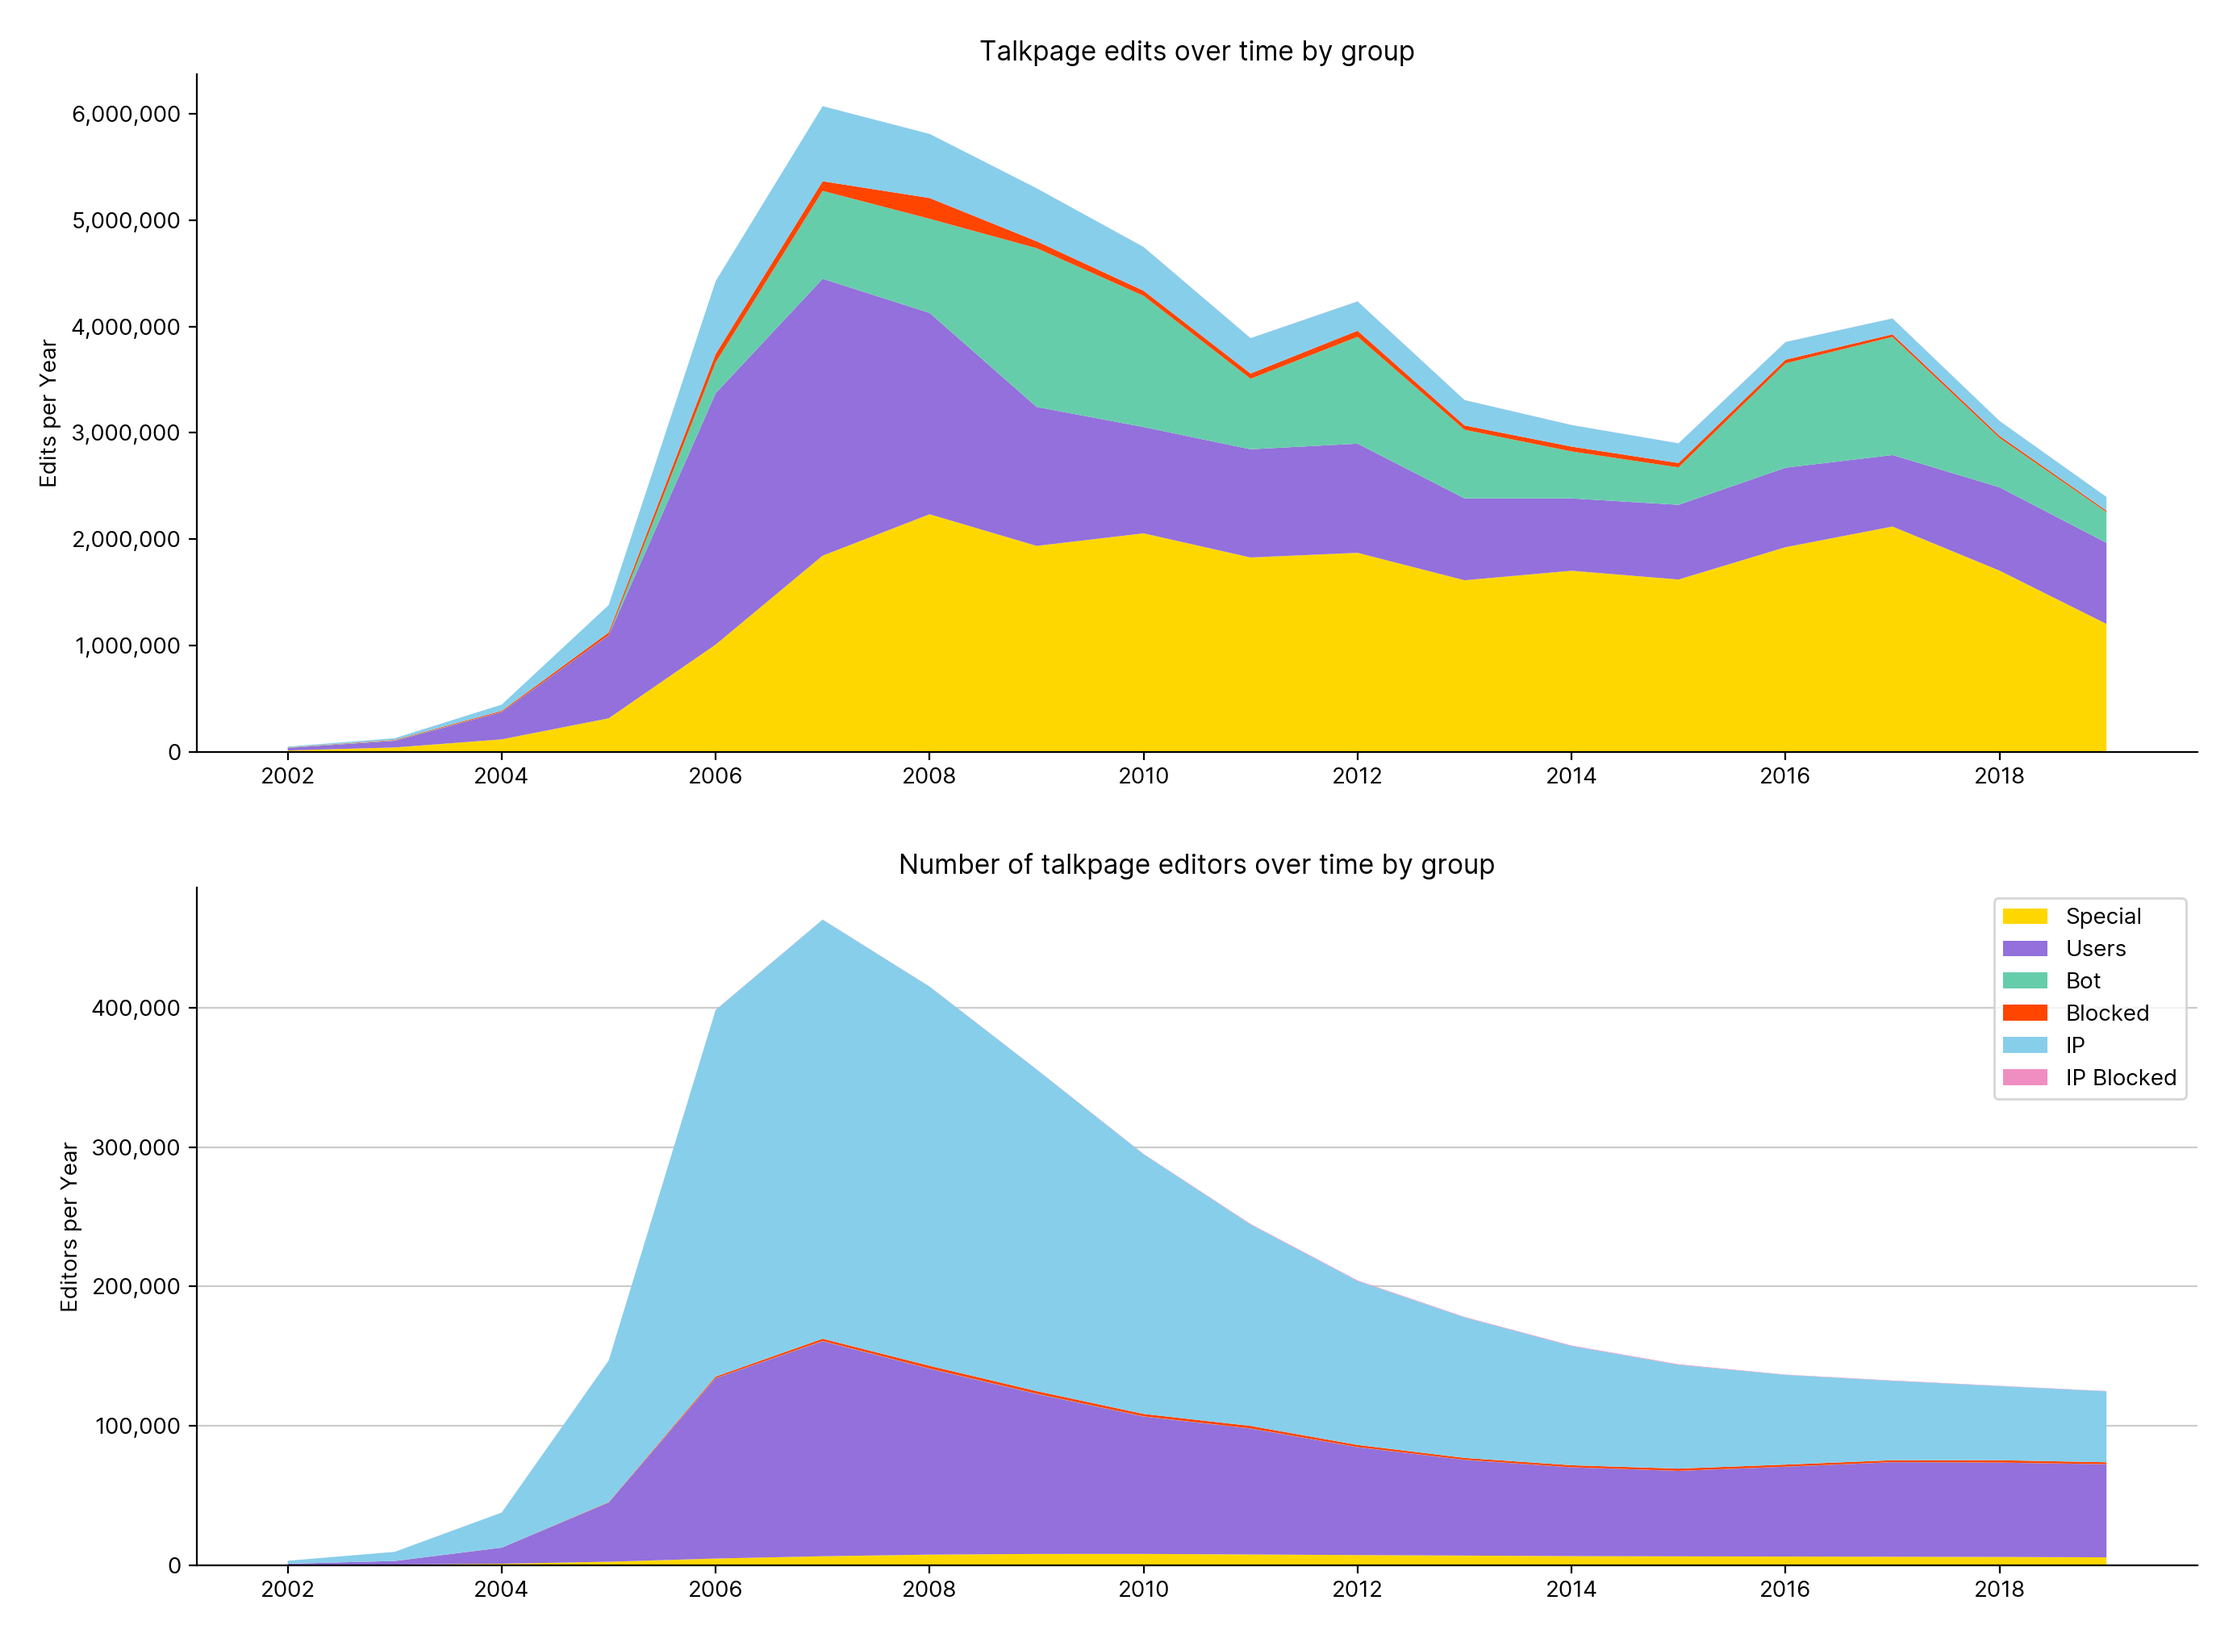
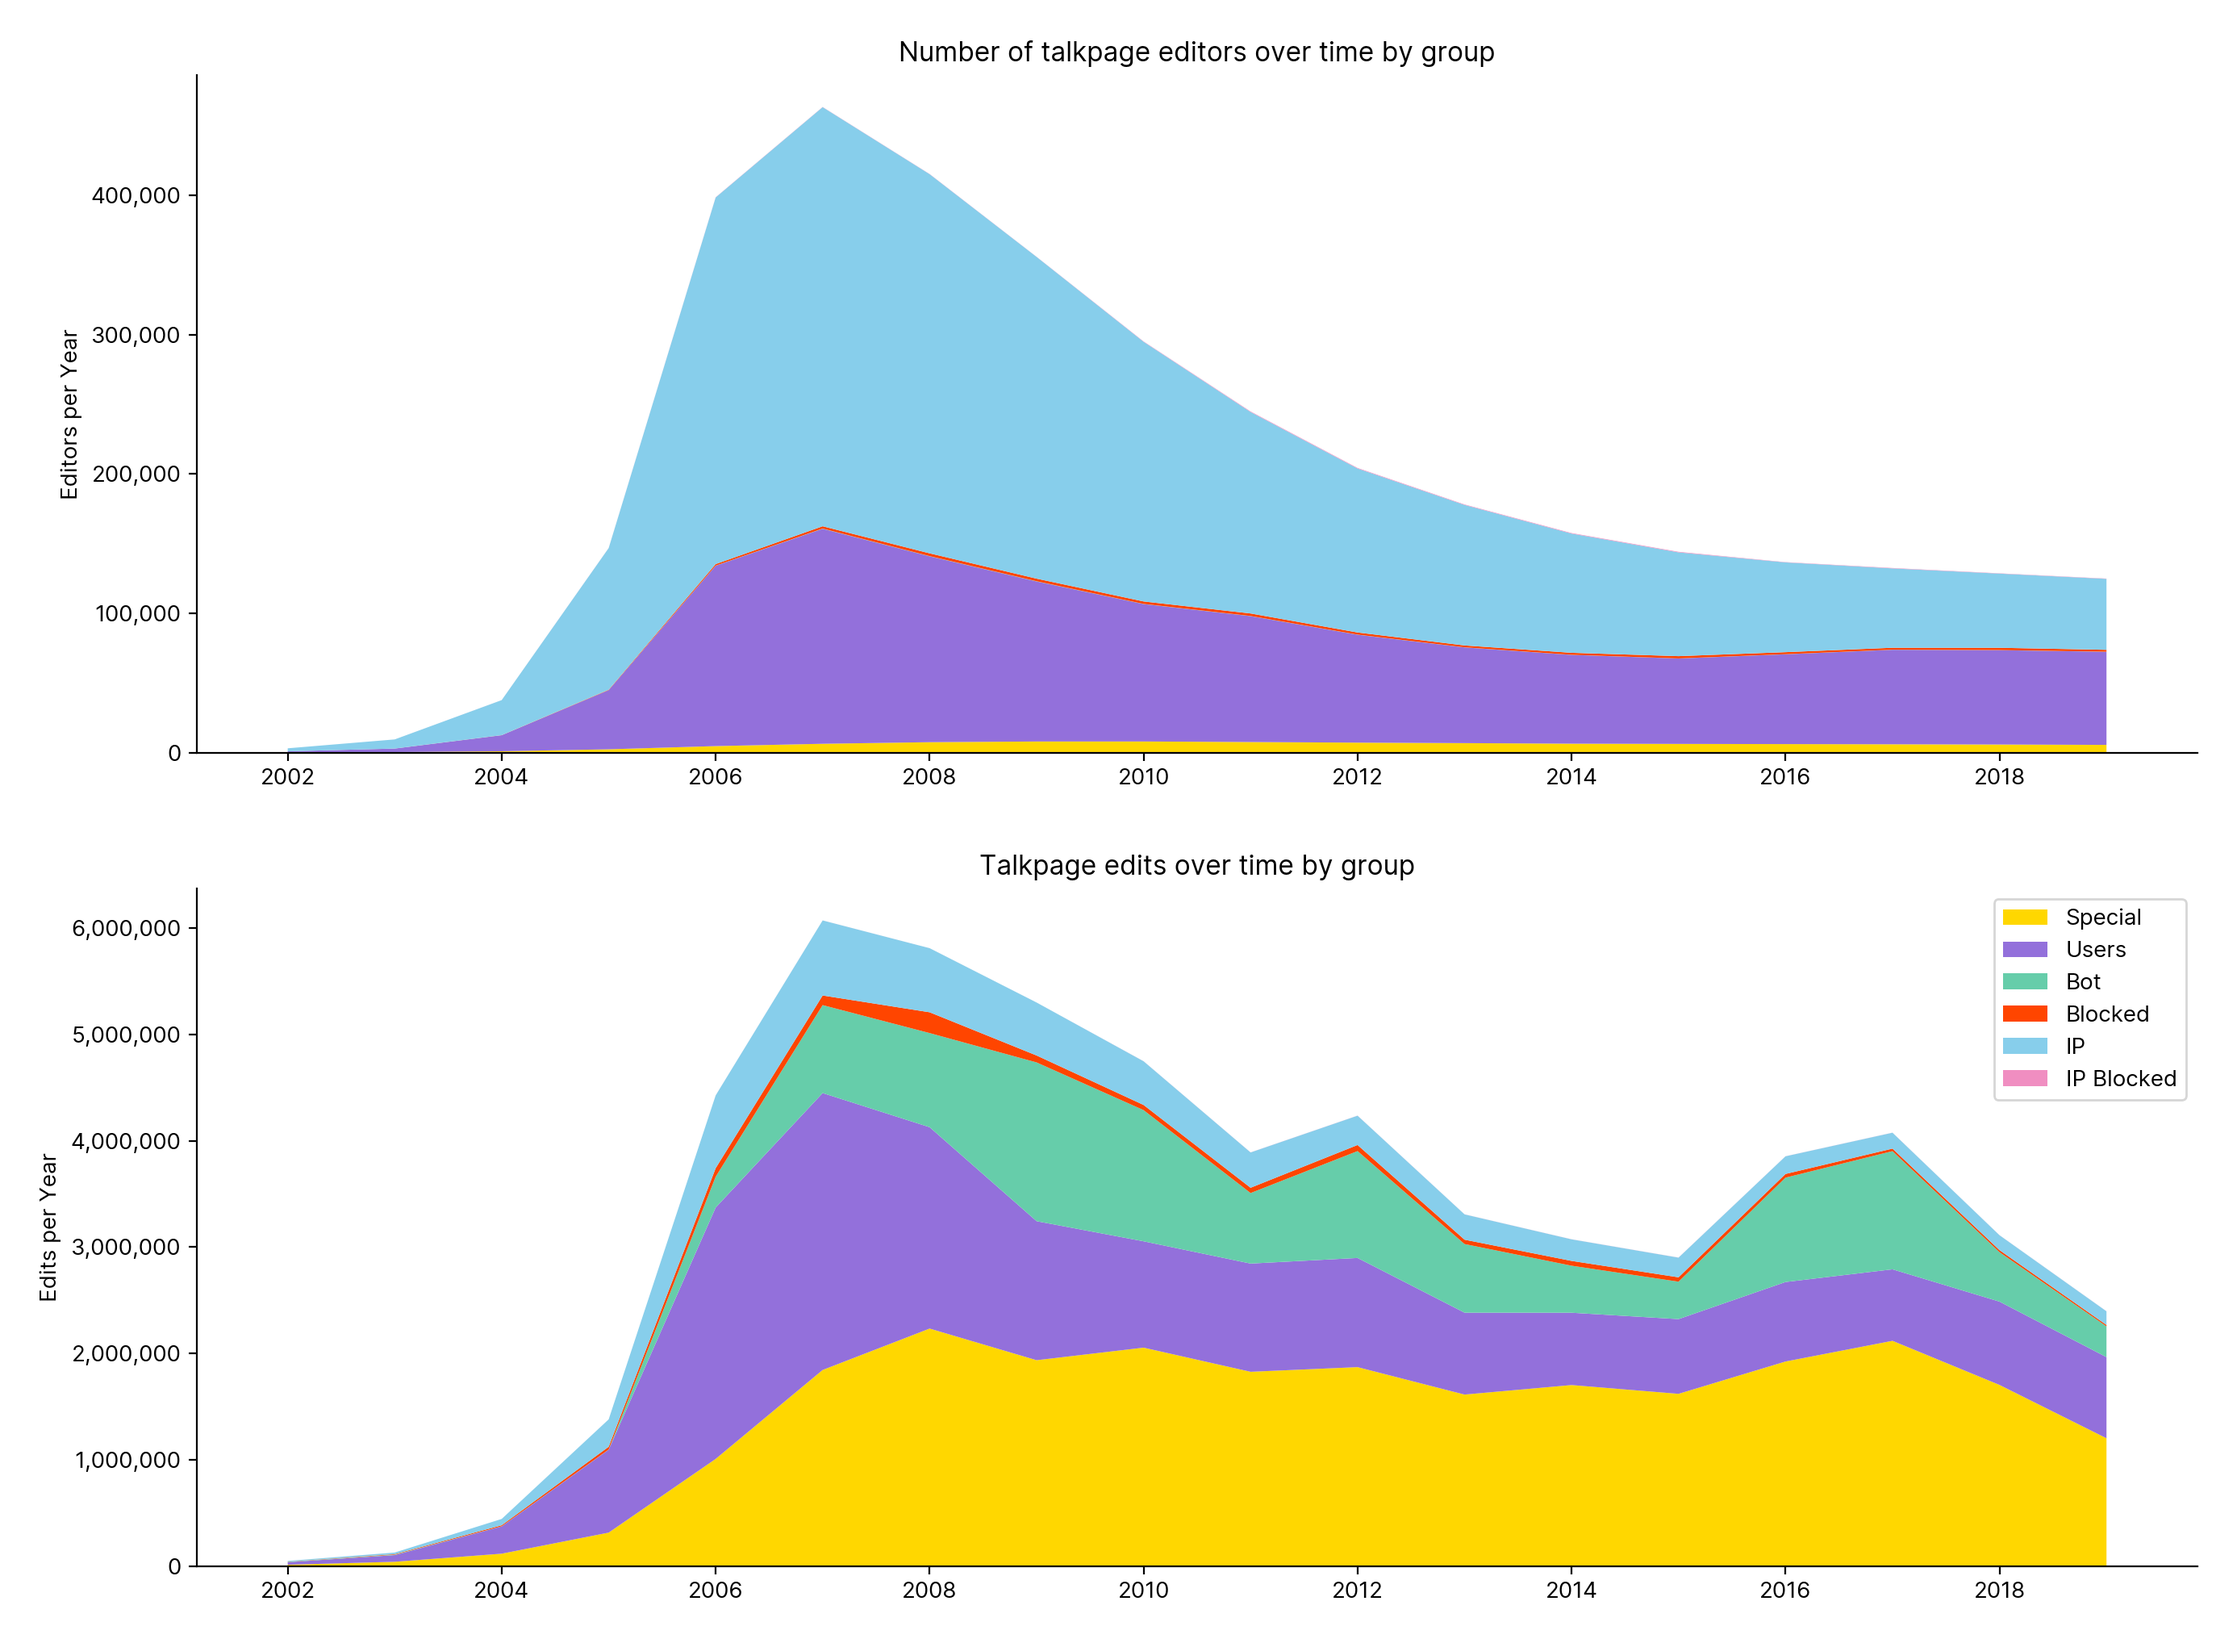
add proportional view of plot

diff --git a/nsdb/plot.py b/nsdb/plot.py
@@ -4432,8 +4432,6 @@ def talkpageEditorsTimeGroups(cursor, i, plotDir, dataDir, dryrun):
 
 
 def compositionOfUserOverTime(cursor, i, plotDir, dataDir, dryrun):
-    figname = plotDir + str(i) + "-" + "compositionOfUserOverTime"
-    plt.figure()
 
     columns = [
         "Special",
@@ -4505,34 +4503,70 @@ def compositionOfUserOverTime(cursor, i, plotDir, dataDir, dryrun):
 
     datesYears = list(range(2002, 2020))
 
+    figname = plotDir + str(i) + "-compositionOfUserOverTime"
+    plt.figure()
     _, axs = plt.subplots(2, 1)
-    axs[0].set_title("Talkpage edits over time by group")
-    axs[1].set_title("Number of talkpage editors over time by group")
-    # for i, column in enumerate(columns):
+    axs[0].set_title("Number of talkpage editors over time by group")
+    axs[1].set_title("Talkpage edits over time by group")
     axs[0].stackplot(
-        datesYears,
-        dataEditsYear,
-        colors=colors,
-        labels=columns,
-    )
-    axs[1].stackplot(
         datesYears,
         dataEditorsYear,
         colors=colors,
         labels=columns,
     )
-    axs[0].set_ylabel("Edits per Year")
-    axs[1].set_ylabel("Editors per Year")
+    axs[1].stackplot(
+        datesYears,
+        dataEditsYear,
+        colors=colors,
+        labels=columns,
+    )
+    axs[0].set_ylabel("Editors per Year")
+    axs[1].set_ylabel("Edits per Year")
 
     for ax in axs:
         ax.xaxis.set_major_locator(plt.MaxNLocator(10))
         ax.spines["top"].set_visible(False)
         ax.spines["right"].set_visible(False)
         ax.yaxis.set_major_formatter(tkr.FuncFormatter(threeFigureFormatter))
-        showGrid(plt, ax, "y")
 
     plt.gcf().set_size_inches(16, 12)
-    plt.legend(loc="upper right")
+    plt.legend()
+
+    plt.savefig(figname, bbox_inches="tight", pad_inches=0.25, dpi=200)
+    plt.close()
+
+    sums = [sum(x) for x in list(zip(*dataEditsYear))]
+    dataEditsYear = [[z/sums[i] for i, z in enumerate(y)] for y in dataEditsYear]
+    sums = [sum(x) for x in list(zip(*dataEditorsYear))]
+    dataEditorsYear = [[z/sums[i] for i, z in enumerate(y)] for y in dataEditorsYear]
+    
+    figname = plotDir + str(i) + "-proportional-compositionOfUserOverTime"
+    plt.figure()
+    _, axs = plt.subplots(2, 1)
+    axs[0].set_title("Number of talkpage editors over time by group")
+    axs[1].set_title("Talkpage edits over time by group")
+    axs[0].stackplot(
+        datesYears,
+        dataEditorsYear,
+        colors=colors,
+        labels=columns,
+    )
+    axs[1].stackplot(
+        datesYears,
+        dataEditsYear,
+        colors=colors,
+        labels=columns,
+    )
+    axs[0].set_ylabel("Editors per Year / %")
+    axs[1].set_ylabel("Edits per Year / %")
+
+    for ax in axs:
+        ax.xaxis.set_major_locator(plt.MaxNLocator(10))
+        ax.spines["top"].set_visible(False)
+        ax.spines["right"].set_visible(False)
+
+    plt.gcf().set_size_inches(16, 12)
+    plt.legend()
 
     plt.savefig(figname, bbox_inches="tight", pad_inches=0.25, dpi=200)
     plt.close()

diff --git a/plots/README.md b/plots/README.md
@@ -100,8 +100,11 @@
 ### 29 Namespaces Edited By User Groups
 ![plot](29-namespacesEditedByUserGroups.png)
 
-### 30 Talkpage Edits Time Averaged
-![plot](30-talkpageEditsTimeAveraged.png)
+### 30.1 Talkpage Edits Time Averaged
+![plot](30-noBots-talkpageEditsTimeAveraged.png)
+
+### 30.2 Talkpage Edits Time Averaged No Bots
+![plot](30-noBots-talkpageEditsTimeAveraged.png)
 
 ### 31 Talkpage Edits Over Time No Bots
 ![plot](31-talkpageEditsOverTimeNoBots.png)
@@ -142,5 +145,8 @@
 ### 36 Talkpage Editors Time Groups
 ![plot](36-talkpageEditorsTimeGroups.png)
 
-### 37 Composition Of User Over Time
+### 37.1 Composition Of User Over Time
 ![plot](37-compositionOfUserOverTime.png)
+
+### 37.2 Composition Of User Over Time Proportional
+![plot](37-proportional-compositionOfUserOverTime.png)
